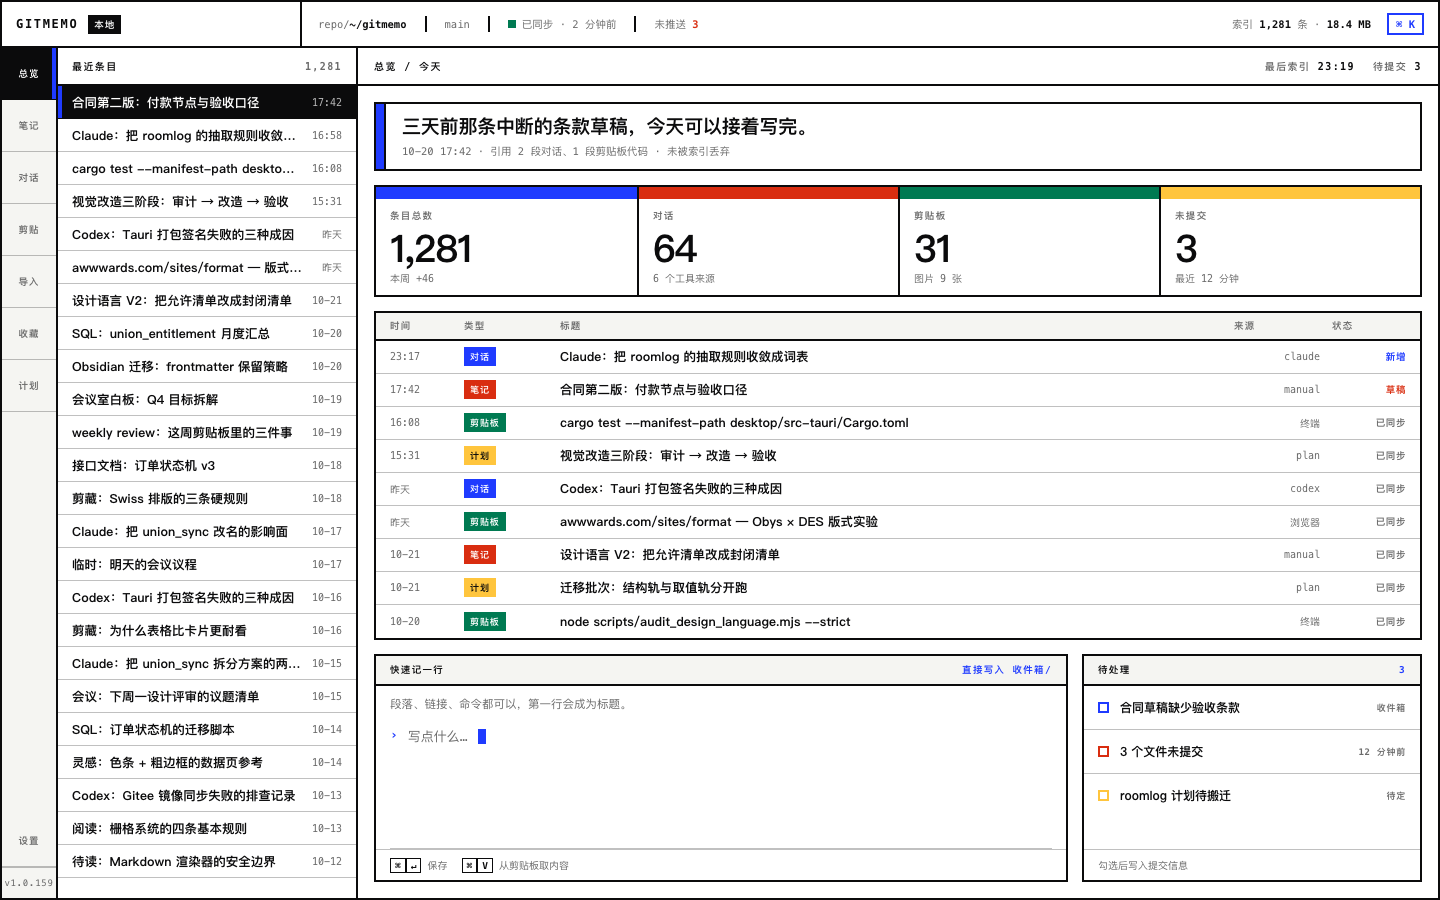
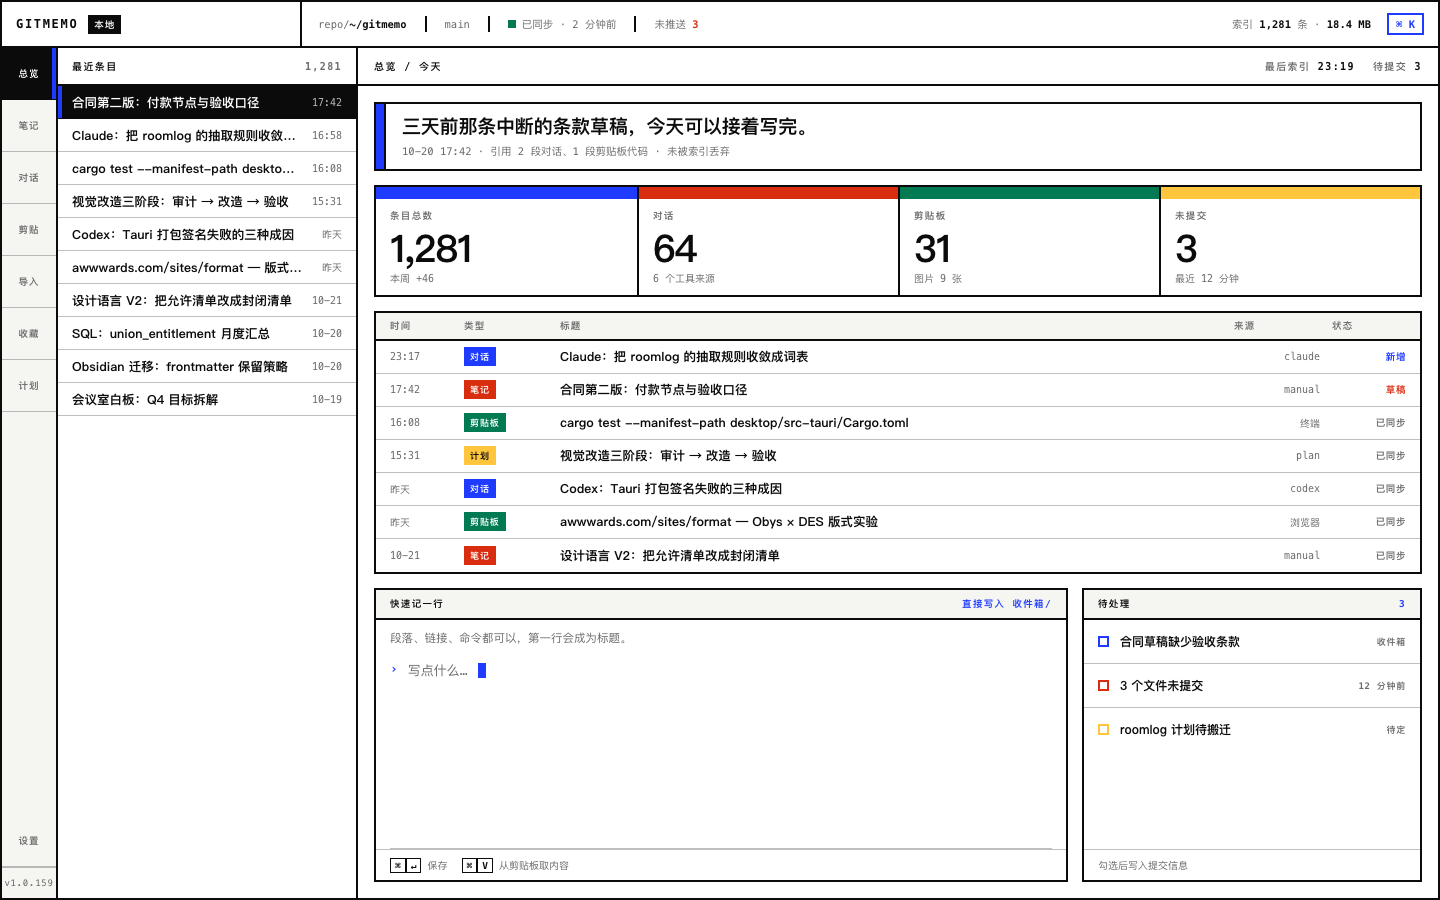
docs(design): align G row counts with B baseline (7 table rows, 10 list rows)

diff --git a/desktop/design-proposals/G-instrument-light.html b/desktop/design-proposals/G-instrument-light.html
@@ -207,20 +207,6 @@
       <div class="row"><span class="t">SQL：union_entitlement 月度汇总</span><span class="tm">10-20</span></div>
       <div class="row"><span class="t">Obsidian 迁移：frontmatter 保留策略</span><span class="tm">10-20</span></div>
       <div class="row"><span class="t">会议室白板：Q4 目标拆解</span><span class="tm">10-19</span></div>
-      <div class="row"><span class="t">weekly review：这周剪贴板里的三件事</span><span class="tm">10-19</span></div>
-      <div class="row"><span class="t">接口文档：订单状态机 v3</span><span class="tm">10-18</span></div>
-      <div class="row"><span class="t">剪藏：Swiss 排版的三条硬规则</span><span class="tm">10-18</span></div>
-      <div class="row"><span class="t">Claude：把 union_sync 改名的影响面</span><span class="tm">10-17</span></div>
-      <div class="row"><span class="t">临时：明天的会议议程</span><span class="tm">10-17</span></div>
-      <div class="row"><span class="t">Codex：Tauri 打包签名失败的三种成因</span><span class="tm">10-16</span></div>
-      <div class="row"><span class="t">剪藏：为什么表格比卡片更耐看</span><span class="tm">10-16</span></div>
-      <div class="row"><span class="t">Claude：把 union_sync 拆分方案的两种走法</span><span class="tm">10-15</span></div>
-      <div class="row"><span class="t">会议：下周一设计评审的议题清单</span><span class="tm">10-15</span></div>
-      <div class="row"><span class="t">SQL：订单状态机的迁移脚本</span><span class="tm">10-14</span></div>
-      <div class="row"><span class="t">灵感：色条 + 粗边框的数据页参考</span><span class="tm">10-14</span></div>
-      <div class="row"><span class="t">Codex：Gitee 镜像同步失败的排查记录</span><span class="tm">10-13</span></div>
-      <div class="row"><span class="t">阅读：栅格系统的四条基本规则</span><span class="tm">10-13</span></div>
-      <div class="row"><span class="t">待读：Markdown 渲染器的安全边界</span><span class="tm">10-12</span></div>
     </div>
   </section>
 
@@ -272,8 +258,6 @@
         <div class="trow"><span class="time">昨天</span><span class="tag" data-t="chat">对话</span><span class="title">Codex：Tauri 打包签名失败的三种成因</span><span class="src">codex</span><span class="st">已同步</span></div>
         <div class="trow"><span class="time">昨天</span><span class="tag" data-t="clip">剪贴板</span><span class="title">awwwards.com/sites/format — Obys × DES 版式实验</span><span class="src">浏览器</span><span class="st">已同步</span></div>
         <div class="trow"><span class="time">10-21</span><span class="tag" data-t="note">笔记</span><span class="title">设计语言 V2：把允许清单改成封闭清单</span><span class="src">manual</span><span class="st">已同步</span></div>
-        <div class="trow"><span class="time">10-21</span><span class="tag" data-t="plan">计划</span><span class="title">迁移批次：结构轨与取值轨分开跑</span><span class="src">plan</span><span class="st">已同步</span></div>
-        <div class="trow"><span class="time">10-20</span><span class="tag" data-t="clip">剪贴板</span><span class="title">node scripts/audit_design_language.mjs --strict</span><span class="src">终端</span><span class="st">已同步</span></div>
       </div>
 
       <div class="lower">
